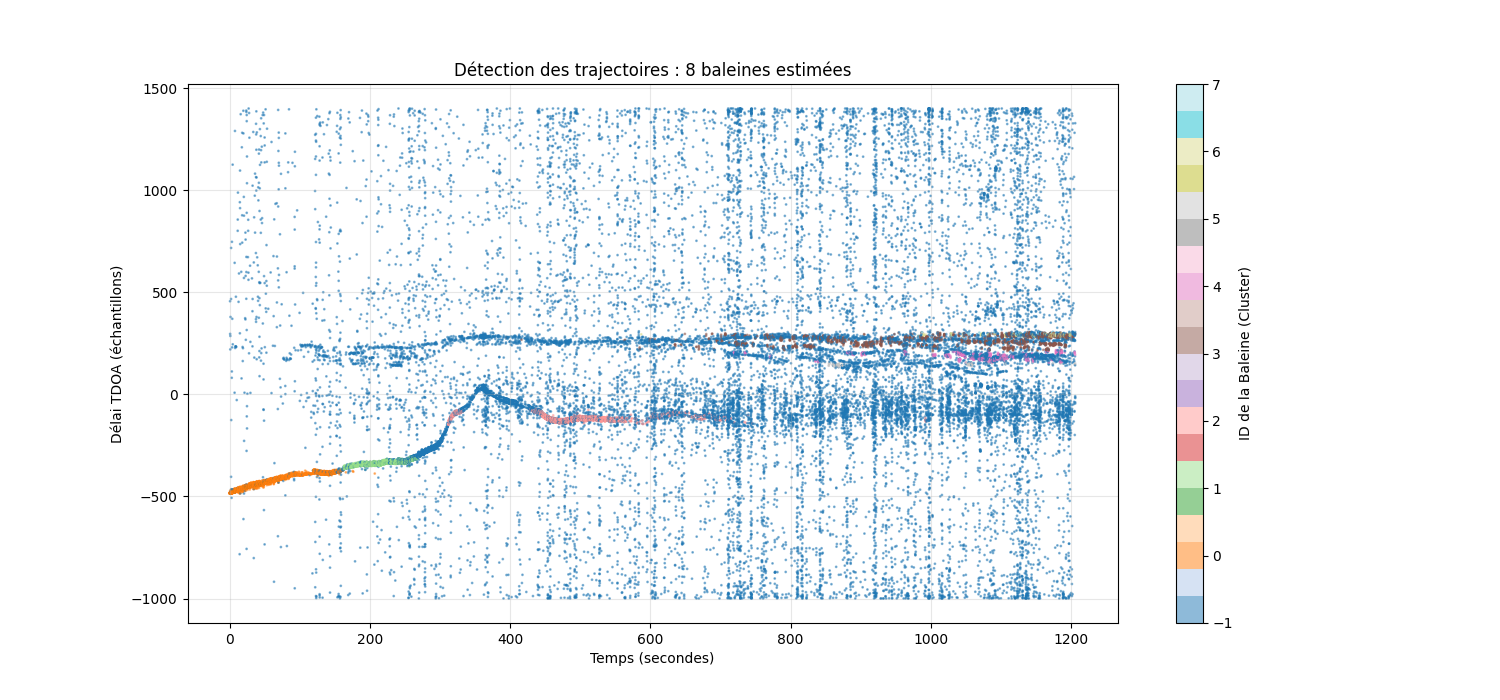
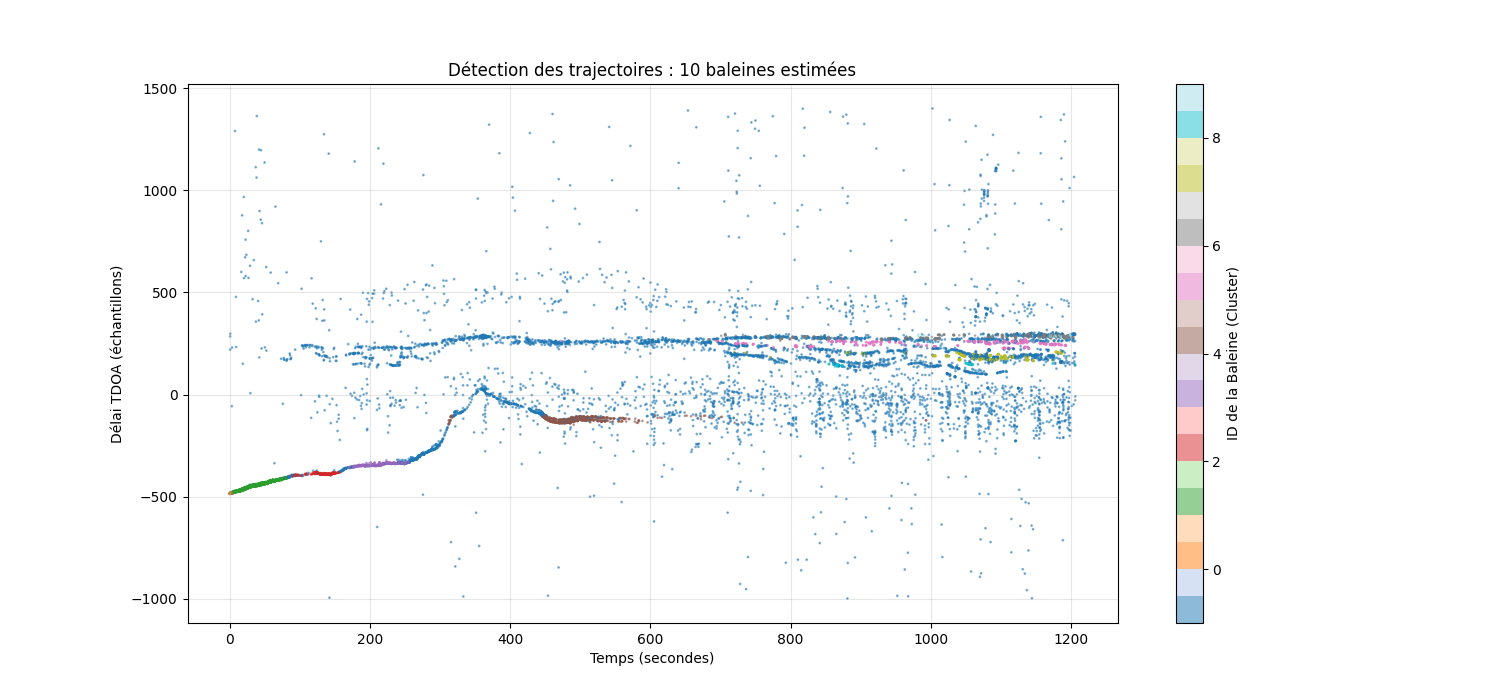
Pareil sur S70

diff --git a/GPU/GenereData.py b/GPU/GenereData.py
@@ -1,6 +1,5 @@
 import cupy as cp
 from cupyx.scipy.signal import correlate as gpucorrelate
-from cupyx.scipy.signal import resample as gpuresample
 from scipy.io import wavfile
 from scipy.signal import find_peaks
 import numpy as np
@@ -8,12 +7,12 @@ import glob
 import os
 import gc
 
-# Configuration des chemins
 input_dir = "/home/partage/M2IPA/meute/"
 output_dir = "/scratch/Shawn/data_processed/"
 os.makedirs(output_dir, exist_ok=True)
 
-files = sorted(glob.glob(os.path.join(input_dir, "ONECAT_*.wav")))[:10]
+# On cible les fichiers S70
+files = sorted(glob.glob(os.path.join(input_dir, "S70_*.wav")))[:10]
 sample_rate_nominal = 384000
 
 for wav_path in files:
@@ -27,54 +26,75 @@ for wav_path in files:
 	print(f"--- Traitement de {audio_id} ---")
 	sr, data = wavfile.read(wav_path)
 	
-	# 1. Détection PPS sur GPU
+	# 1. Détection PPS robuste sur GPU
 	canal5_raw = cp.asarray(data[:, 4].astype(np.float32))
 	seg = canal5_raw[:800000]
-	seuil_pps = 0.7 * cp.max(cp.abs(seg))
-	upi = int(cp.where(seg > seuil_pps)[0][0])
+	
+	# Seuil initial basé sur le bruit ambiant (médiane)
+	signal_abs = cp.abs(seg)
+	seuil_pps = 15 * cp.median(signal_abs) # On cherche 15x le bruit de fond
+
+	indices_seuil = cp.where(seg > seuil_pps)[0]
+	
+	if len(indices_seuil) == 0:
+		print(f"   /!\\ Aucun PPS trouvé dans le segment initial de {audio_id}. Abandon.")
+		continue
+
+	upi = int(indices_seuil[0])
 	atome = seg[upi-10:upi+10]
 	atome -= cp.mean(atome)
 	atome /= cp.max(cp.abs(atome))
 
+	# Corrélation sur tout le canal 5
 	corr = gpucorrelate(canal5_raw, atome, mode='valid')
-	indices_pps, _ = find_peaks(corr.get(), height=float(0.8 * cp.max(cp.abs(corr))))
+	corr_abs = cp.abs(corr)
 	
-	# Libération mémoire après PPS
-	del canal5_raw, seg, corr
+	# SEUIL DE CORRÉLATION ROBUSTE : On ne prend plus le MAX
+	seuil_corr = 15 * cp.median(corr_abs) 
 	
-	# 2. Calcul du facteur
+	indices_pps, _ = find_peaks(corr_abs.get(), height=float(seuil_corr), distance=300000)
+	
+	del canal5_raw, seg, corr, corr_abs
+	
+	# 2. Vérification avant calcul
+	if len(indices_pps) < 2:
+		print(f"   /!\\ Pas assez de PPS trouvés ({len(indices_pps)}) pour {audio_id}.")
+		continue
+
+	# 3. Calcul du facteur (Synchronisation)
 	mean_inter = np.mean(np.diff(indices_pps))
 	factor = sample_rate_nominal / mean_inter
-	n_target = int(np.round(len(data) * factor))
 	
-	# 3. Resampling CANAL PAR CANAL (Moins de VRAM utilisée)
-	print(f"   Resampling vers {n_target} échantillons...")
-	data_resampled = cp.zeros((n_target, 5), dtype=cp.float32)
-	
-	for i in range(5):
-		print(f"      Canal {i} en cours...")
-		chan_gpu = cp.asarray(data[:, i].astype(np.float32))
-		
-		# Option A : Resample FFT (Original)
-		# data_resampled[:, i] = gpuresample(chan_gpu, n_target)
-		
-		# Option B : Si ça plante encore, remplace la ligne au dessus par :
-		x_old = cp.arange(len(chan_gpu))
-		x_new = cp.linspace(0, len(chan_gpu)-1, n_target)
-		data_resampled[:, i] = cp.interp(x_new, x_old, chan_gpu)
-		
-		del chan_gpu # Nettoyage après chaque canal
+	# Sécurité anti-aberration (le facteur doit être proche de 1.0)
+	if not (0.9 < factor < 1.1):
+		print(f"   /!\\ Facteur aberrant détecté ({factor:.4f}). Problème de PPS sur {audio_id}.")
+		continue
 
-	# 4. Normalisation finale
+	n_target = int(np.round(len(data) * factor))
+	print(f"   Sync OK (facteur: {factor:.6f}) -> Resampling...")
+
+	# 4. Resampling Canal par Canal (Option B : Interpolation)
+	data_resampled = cp.zeros((n_target, 5), dtype=cp.float32)
+	x_old = cp.arange(len(data))
+	x_new = cp.linspace(0, len(data)-1, n_target)
+
+	for i in range(5):
+		print(f"      Canal {i}...")
+		chan_gpu = cp.asarray(data[:, i].astype(np.float32))
+		data_resampled[:, i] = cp.interp(x_new, x_old, chan_gpu)
+		del chan_gpu
+
+	# 5. Normalisation et Sauvegarde
 	data_resampled -= cp.mean(data_resampled, axis=0)
 	data_resampled /= cp.max(cp.abs(data_resampled), axis=0)
 	
-	# 5. Sauvegarde et Nettoyage complet
 	np.save(output_path, data_resampled.get())
-	del data_resampled
-	gc.collect() # Nettoyage CPU
-	cp.get_default_memory_pool().free_all_blocks() # Nettoyage GPU
+	
+	# Nettoyage
+	del data_resampled, x_old, x_new
+	gc.collect()
+	cp.get_default_memory_pool().free_all_blocks()
 	
 	print(f"Sauvegardé : {output_path}")
 
-print("\nTraitement terminé avec succès.")
+print("\nTraitement terminé.")

diff --git a/GPU/TraiteData.py b/GPU/TraiteData.py
@@ -12,50 +12,78 @@ def highpass_filter_gpu(sig, sr, cutoff=10000, order=5):
 # Configuration
 SR = 384000
 data_dir = "/scratch/Shawn/data_processed/"
-npy_files = sorted(glob.glob(os.path.join(data_dir, "data_ONECAT_*.npy")))
+# On cible bien les fichiers S70
+npy_files = sorted(glob.glob(os.path.join(data_dir, "data_S70_*.npy")))
+
+# --- PARAMÈTRES "HAUTE SENSIBILITÉ" POUR S70 ---
+SEUIL_MULTIPLICATEUR = 7   # On divise par deux pour capter les clics faibles
+SCORE_CORR_MIN = 0.30       # Un peu plus tolérant sur la forme du clic
+# ----------------------------------------------
 
 all_results = []
 
 for npy_path in npy_files:
-	print(f"Analyse des clics : {os.path.basename(npy_path)}")
-	data = cp.load(npy_path)
+	print(f"Analyse sensible de {os.path.basename(npy_path)}...")
+	data_raw = cp.load(npy_path)
 	
-	# Filtrage canal 0
-	filt0 = highpass_filter_gpu(data[:, 0], SR)
-	sig_abs = cp.abs(filt0)
+	# Filtrage de tous les canaux
+	data_filt = cp.zeros_like(data_raw)
+	for ch in range(4):
+		data_filt[:, ch] = highpass_filter_gpu(data_raw[:, ch], SR)
 	
-	# --- SEUIL ADAPTATIF ---
-	# On calcule la médiane du signal absolu (très robuste au bruit)
-	# Un clic est typiquement 10 à 15 fois plus fort que le bruit médian
-	bruit_median = cp.median(sig_abs)
-	seuil_adaptatif = 12 * bruit_median # Ajuste le multiplicateur (12) si besoin
+	# Détection sur le canal 0
+	sig_abs0 = cp.abs(data_filt[:, 0])
+	bruit_median = cp.median(sig_abs0)
+	seuil_adaptatif = SEUIL_MULTIPLICATEUR * bruit_median
 	
-	indices = cp.where(sig_abs > seuil_adaptatif)[0].get()
+	indices = cp.where(sig_abs0 > seuil_adaptatif)[0].get()
 	
-	# Tri des clics
-	clics = []
+	# Tri des clics (2ms)
+	clics_candidats = []
 	prev = -9999
 	for idx in indices:
 		if idx - prev > int(0.002 * SR):
-			clics.append(idx)
+			clics_candidats.append(idx)
 		prev = idx
 
-	print(f"   -> {len(clics)} clics détectés")
+	clics_valides = 0
+	scores_clics = []
 
-	# Calcul des TDOA (Inter-corrélation)
-	for clic in clics:
-		if clic < 1000 or clic > len(filt0) - 2000: continue
+	for clic in clics_candidats:
+		if clic < 1000 or clic > len(data_filt) - 2000: continue
 		
-		start, end = clic-100, clic+500
-		motif = filt0[start:end]
+		motif = data_filt[clic-100:clic+500, 0]
+		motif_norm = motif / cp.sqrt(cp.sum(motif**2))
+		
+		clic_data_tmp = []
+		qualite_clic = True
+		scores_canaux = []
 		
 		for i in range(1, 4):
-			sig_chan = data[clic-1000:clic+2000, i]
-			corr = gpucorrelate(sig_chan, motif, mode='valid')
+			sig_chan = data_filt[clic-1000:clic+2000, i]
+			sig_chan_norm = sig_chan / cp.sqrt(cp.sum(sig_chan**2))
+			
+			corr = gpucorrelate(sig_chan_norm, motif_norm, mode='valid')
+			score = float(cp.max(cp.abs(corr)).get())
+			scores_canaux.append(score)
+			
+			if score < SCORE_CORR_MIN:
+				qualite_clic = False
+				break
+			
 			delta_t = int(cp.argmax(cp.abs(corr)).get()) - 1000
-			all_results.append([npy_path, clic, i, delta_t])
+			clic_data_tmp.append([clic, i, delta_t])
+		
+		if qualite_clic:
+			for item in clic_data_tmp:
+				all_results.append([npy_path, item[0], item[1], item[2]])
+			clics_valides += 1
+			scores_clics.append(np.mean(scores_canaux))
 
-# Sauvegarde des résultats finaux sur le scratch
+	avg_score = np.mean(scores_clics) if scores_clics else 0
+	print(f"   -> {clics_valides} clics retenus / {len(clics_candidats)} candidats (Score moy: {avg_score:.2f})")
+
+# Sauvegarde spécifique pour S70
 results_arr = np.array(all_results)
-np.save("/scratch/Shawn/tdoa_results.npy", results_arr)
-print("Analyse terminée. Résultats sauvegardés dans /scratch/Shawn/tdoa_results.npy")
+np.save("/scratch/Shawn/tdoa_results_s70.npy", results_arr)
+print(f"\nTerminé. Résultats S70 sauvegardés dans tdoa_results_s70.npy")

diff --git a/GPU/Baleines.py b/GPU/Baleines.py
@@ -4,7 +4,7 @@ from sklearn.cluster import DBSCAN
 import pandas as pd
 
 # 1. Chargement et préparation des données
-data_raw = np.load("/scratch/Shawn/tdoa_results.npy")
+data_raw = np.load("/scratch/Shawn/tdoa_results_s70.npy")
 # Structure supposée : [nom_fichier, clic_index, canal_id, delta_t]
 df = pd.DataFrame(data_raw, columns=['file', 'clic_idx', 'channel', 'dt'])
 df[['clic_idx', 'channel', 'dt']] = df[['clic_idx', 'channel', 'dt']].apply(pd.to_numeric)
@@ -23,7 +23,8 @@ df_pivot['time'] = df_pivot['file'].map(file_map) + (df_pivot['clic_idx'] / 3840
 # On cluster sur les 3 TDOA (canaux 1, 2, 3)
 # eps est la distance maximale entre deux clics pour qu'ils soient de la même baleine
 X = df_pivot[[1, 2, 3]].values
-db = DBSCAN(eps=10, min_samples=60).fit(X) # Ajuste eps selon tes résultats
+# db = DBSCAN(eps=8, min_samples=60).fit(X) # Ajuste eps selon tes résultats
+db = DBSCAN(eps=10, min_samples=20).fit(X)
 df_pivot['whale_id'] = db.labels_
 
 # 5. Visualisation
@@ -35,7 +36,7 @@ plt.xlabel("Temps (secondes)")
 plt.ylabel("Délai TDOA (échantillons)")
 plt.title(f"Détection des trajectoires : {len(set(db.labels_)) - (1 if -1 in db.labels_ else 0)} baleines estimées")
 plt.grid(True, alpha=0.3)
-plt.savefig("Trajectoires_Baleines.png")
+plt.savefig("Trajectoires_Baleines_s70.png")
 
 n_whales = len(set(db.labels_)) - (1 if -1 in db.labels_ else 0)
 print(f"Nombre de baleines estimées par clustering : {n_whales}")

diff --git a/GPU/VerifData.py b/GPU/VerifData.py
@@ -7,7 +7,7 @@ import os
 # Configuration
 data_dir = "/scratch/Shawn/data_processed/"
 sample_rate_target = 384000
-npy_files = sorted(glob.glob(os.path.join(data_dir, "data_ONECAT_*.npy")))[:10]
+npy_files = sorted(glob.glob(os.path.join(data_dir, "data_S70_*.npy")))[:10]
 
 plt.figure(figsize=(12, 6))
 
@@ -23,7 +23,9 @@ for i, npy_path in enumerate(npy_files):
 	
 	# Détection des PPS (Pics d'amplitude sur le canal 5 corrigé)
 	# On cherche des pics espacés d'environ 1 seconde (384 000 samples)
-	peaks, _ = find_peaks(np.abs(canal5), height=0.7, distance=300000)
+	# peaks, _ = find_peaks(np.abs(canal5), height=0.7, distance=300000)
+	seuil_verif = 10 * np.median(np.abs(canal5))
+	peaks, _ = find_peaks(np.abs(canal5), height=seuil_verif, distance=300000)
 	
 	intervalles = np.diff(peaks)
 	moyenne = np.mean(intervalles)
